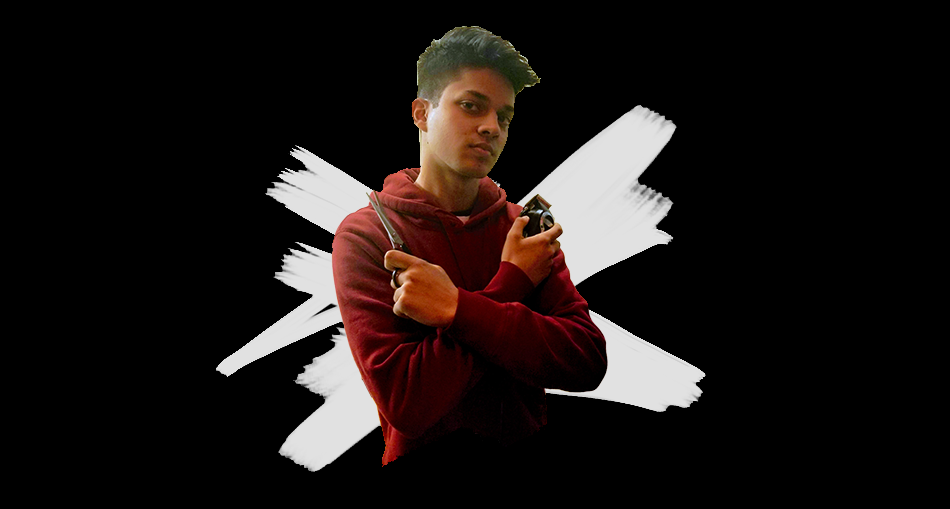
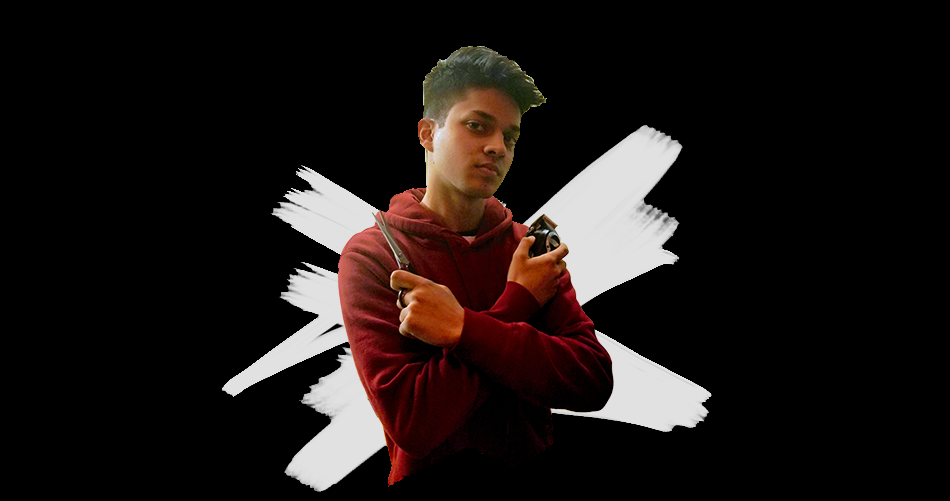
moved image down

Changed region(s): [[0.2137, 0.0299, 0.7632, 0.988], [0.5495, 0.8683, 0.58, 0.8982]]

diff --git a/index.html b/index.html
@@ -25,7 +25,7 @@
     <meta property="og:url" content="http://mitfades.com/">
     <meta property="og:title" content="Big Daddy Gup's Fade Shop">
     <meta property="og:type" content="website" />
-    <meta property="og:description" content="A space for MIT students to obtain the tightest fades the world of barbery has to offer. Precise, elegant, shaved.">
+    <meta property="og:description" content="Precise, elegant, faded.">
 
 
     <!-- Add jQuery library -->
@@ -159,7 +159,7 @@
 
             <section class="fg6 push3">
                 <p>
-                    A space for MIT students to obtain the tightest fades the world of barbery has to offer. <br><br> Precise, elegant, shaved.
+                    A space for MIT students to obtain the tightest fades the world of barbery has to offer. <br><br> Precise, elegant, faded.
                 </p>
 
                 <a class="cta" data-scroll data-speed="3" data-easing="easeInOutCubic" data-url="false" href="#kontakt">Make Appointment Now</a>
